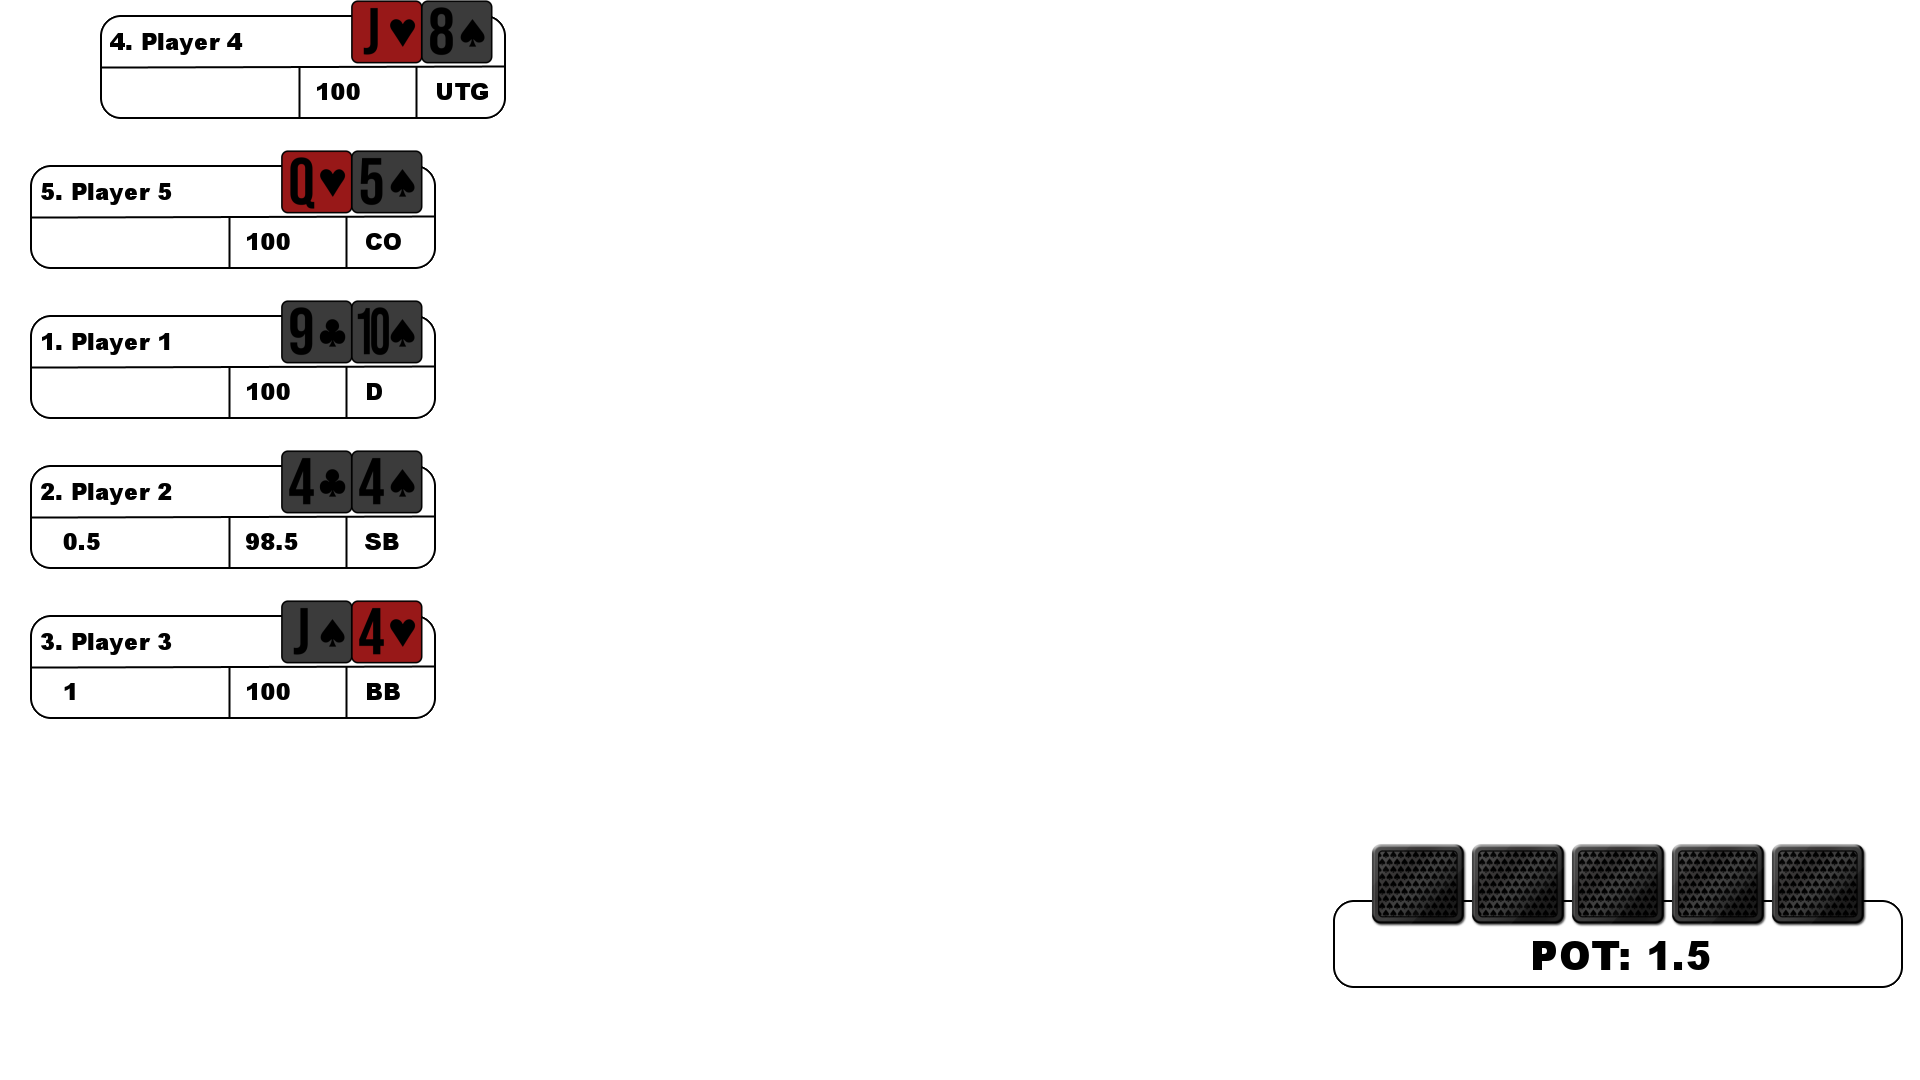
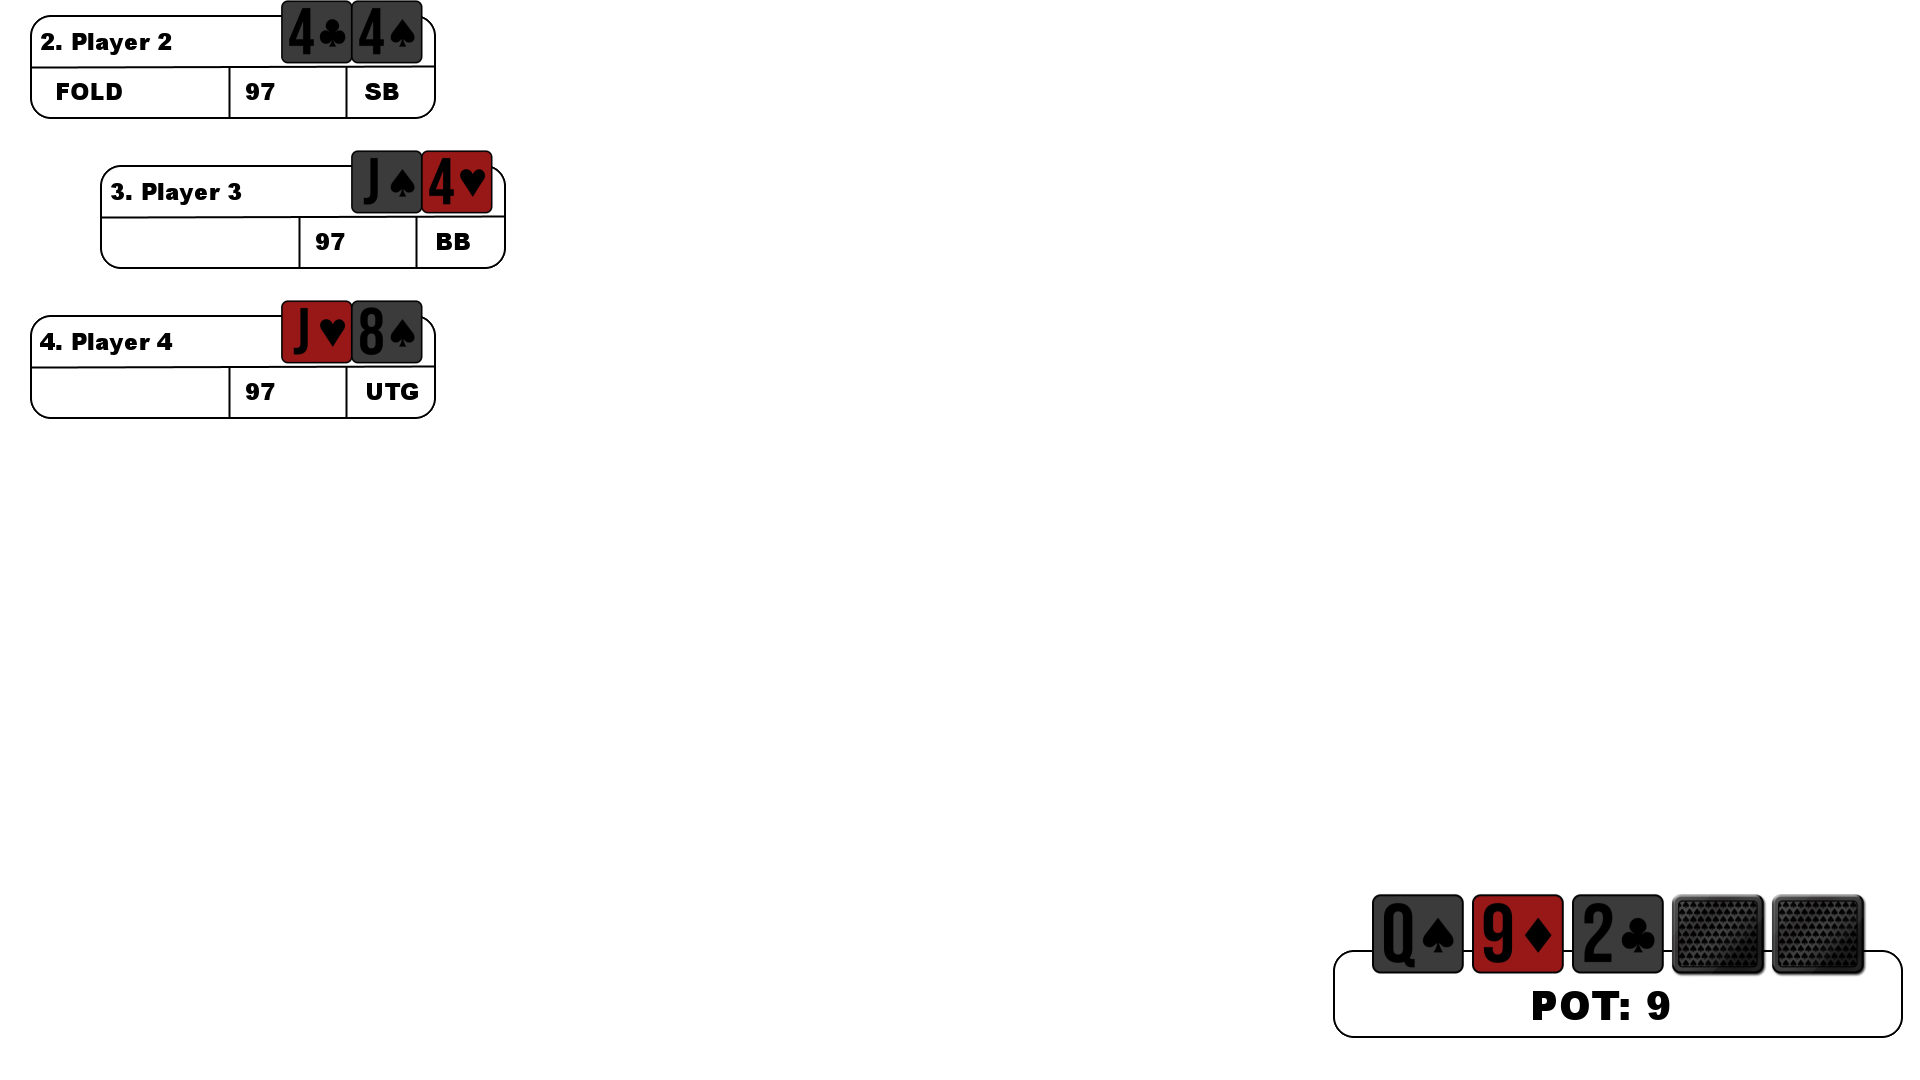
fix fold not showing and adjusted pot y position

diff --git a/createOverlay.js b/createOverlay.js
@@ -77,6 +77,7 @@ async function generateImage(player) {
       actionText = "RAISE TO"
     } else if (player.action == ACTIONS.CHECK) {
       actionText = "CHECK"
+      playerBetText = ""
     } else if (player.action == ACTIONS.FOLD) {
       actionText = "FOLD"
       playerBetText = ""
@@ -84,7 +85,7 @@ async function generateImage(player) {
 
 
     context.fillText(`${player.seatNumber}. ${player.name}`, 10, 50);
-    if (player.currentBet > 0) {
+    if (player.currentBet > 0 || player.action == ACTIONS.CHECK || player.action == ACTIONS.FOLD) {
       context.fillText(`${actionText} ${playerBetText}`, 25, 100);
     }
     context.fillText(`${player.stackSize}`, 215, 100);
@@ -109,9 +110,7 @@ async function generateMasterCanvas(playerArray, board, pot) { //input array of 
 
   // Create an array to store promises of generated images
   const imagePromises = playerArray.map(player => generateImage(player));
-  // console.log(imagePromises)
   const canvases = await Promise.all(imagePromises)
-  // console.log(canvases)
 
   // Place each canvas on the master canvas
   canvases.forEach((canvas, index) => {
@@ -131,11 +130,9 @@ async function generateMasterCanvas(playerArray, board, pot) { //input array of 
   // Load the pot background image
   const potBackgroundImage = await loadImage(__dirname + "/overlay_imgs/pot_background.png");
 
-  masterContext.drawImage(potBackgroundImage, 1333, 900);
+  masterContext.drawImage(potBackgroundImage, 1333, 950);
 
   // let board = ["7c","2s","2d","5h","5d"];
-
-  const blankCard = await loadImage(__dirname + "/stream_cards/b.png");
 
   const cardImagePromises = board.map(card => loadImage(__dirname + "/stream_cards/" + card + ".png"));
 
@@ -146,7 +143,7 @@ async function generateMasterCanvas(playerArray, board, pot) { //input array of 
     // Draw the loaded card images onto the master canvas
     cardImages.forEach((cardImage, index) => {
       const xPosition = 1368 + index * 100; // Increment x position by 100 each time
-      masterContext.drawImage(cardImage, xPosition, 840, 100, 88);
+      masterContext.drawImage(cardImage, xPosition, 890, 100, 88);
     });
   } catch (error) {
     console.error("An error occurred while loading card images:", error);
@@ -160,7 +157,7 @@ async function generateMasterCanvas(playerArray, board, pot) { //input array of 
   masterContext.font = "900 40px Arial";
 
   // Write the text on the master canvas
-  masterContext.fillText(potText, 1530, 970);
+  masterContext.fillText(potText, 1530, 1020);
 
   const masterCanvasPath = __dirname + "/masterCanvas.png";
 
@@ -169,7 +166,4 @@ async function generateMasterCanvas(playerArray, board, pot) { //input array of 
   console.log("The master canvas PNG file was created.");
 }
 
-// generateMasterCanvas(playerArray)
-
-// generateMasterCanvas(playerArray)
 module.exports = generateMasterCanvas;

diff --git a/stream.js b/stream.js
@@ -224,6 +224,7 @@ async function readPlayerActions() {
         playerToAct = playerQueue.peek()
         if (playerToAct.name == LAST_TO_BET.NAME && LAST_TO_BET.AMOUNT != BIG_BLIND) {
           actionIsClosed = true;
+          await generateMasterCanvas(playersForMasterCanvas,board,pot)
         }
 
         //set flag playerToact.isTurn = false
@@ -396,7 +397,9 @@ function sortPlayerHoleCards() {
     } else if (hand1 == 'Q') {
       hand1Value = 12;
     } else if (hand1 == 'J') {
-      hand1Value = 11
+      hand1Value = 11;
+    } else if (hand1 == 'T') {
+      hand1Value = 10;
     } else {
       hand1Value = parseInt(hand1);
     }
@@ -408,8 +411,10 @@ function sortPlayerHoleCards() {
     } else if (hand2 == 'Q') {
       hand2Value = 12;
     } else if (hand2 == 'J') {
-      hand2Value = 11
-    } else {
+      hand2Value = 11;
+    } else if (hand2 == 'T') {
+      hand2Value = 10;
+    }else {
       hand2Value = parseInt(hand2);
     }
 
